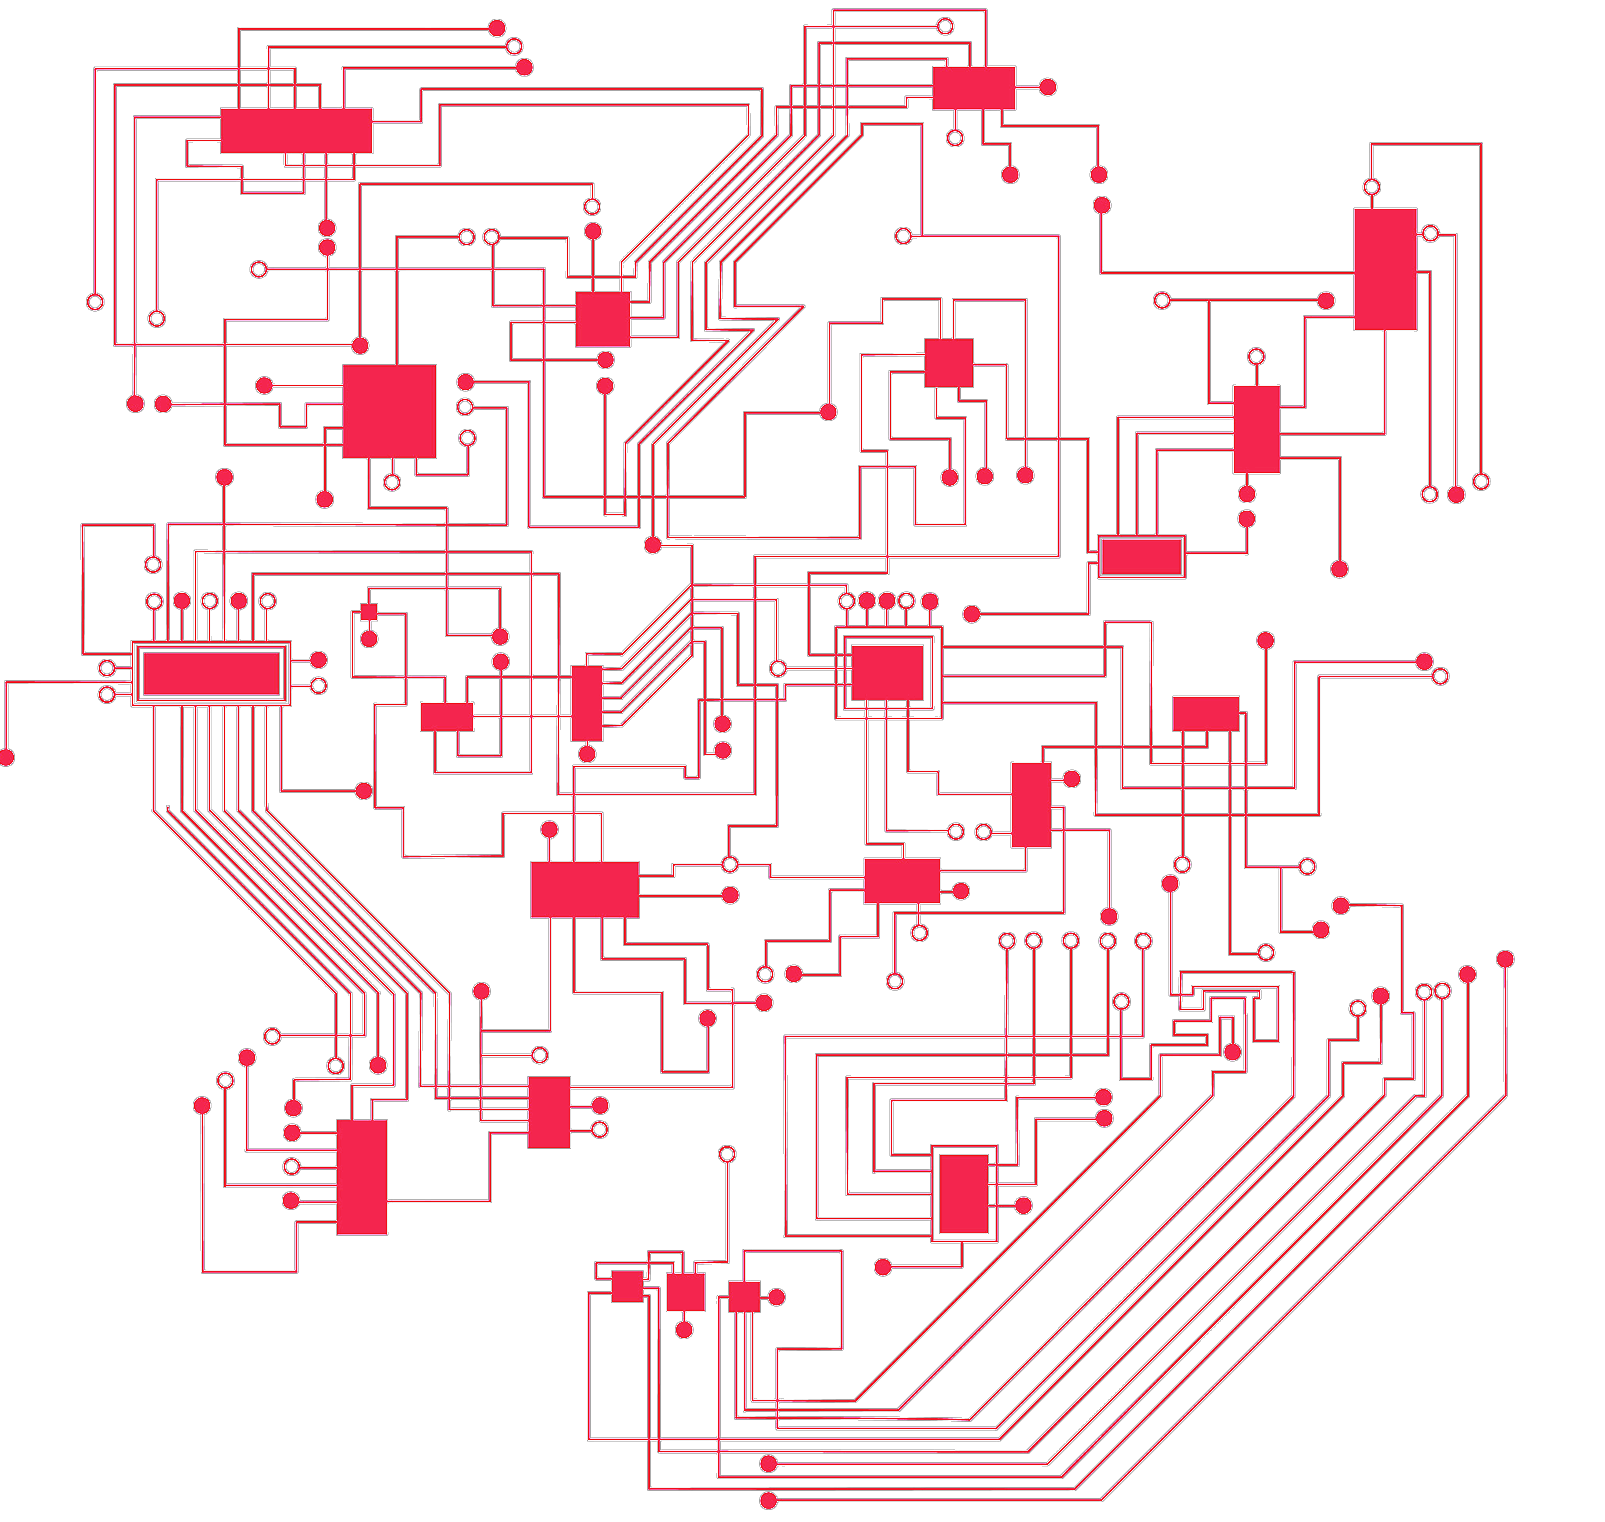
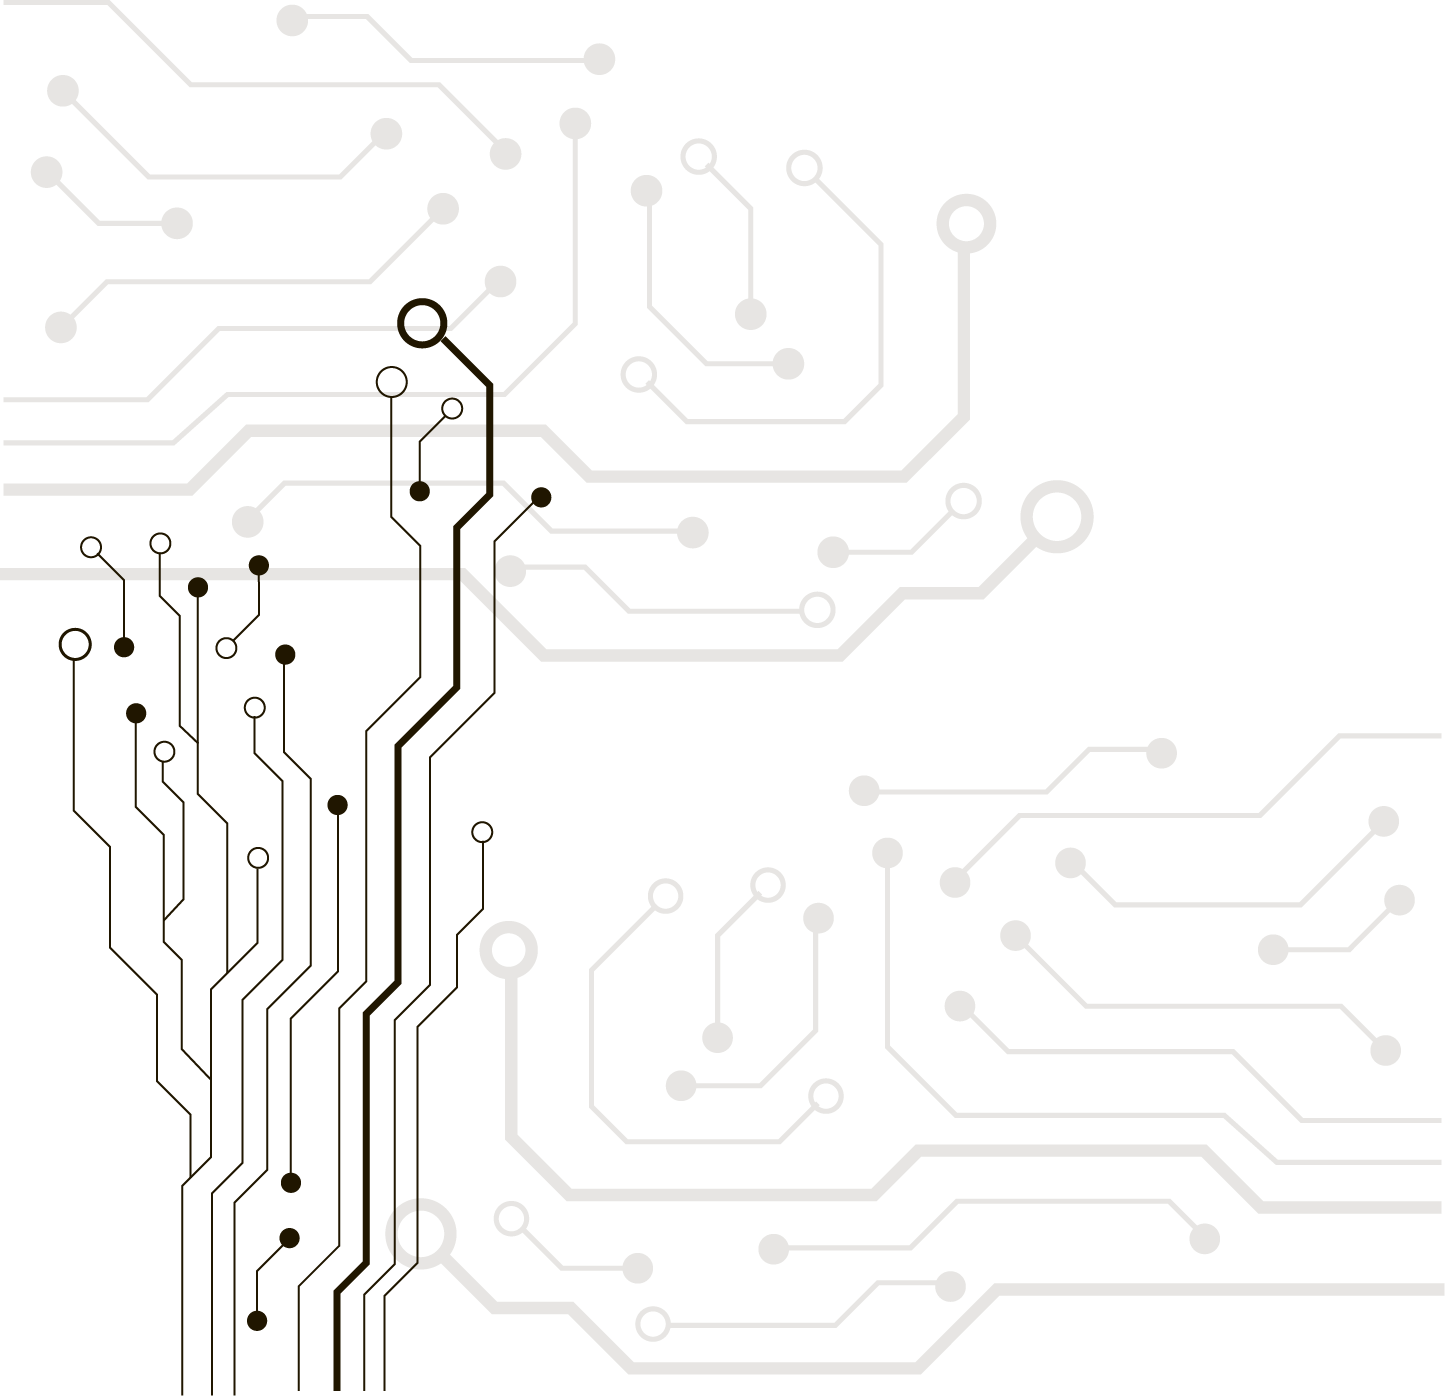
Finishing the second part of the project for LND

diff --git a/css/form-styles.css b/css/form-styles.css
@@ -15,6 +15,7 @@ body {
 
 .container{
   display: flex;
+  width: 100vw;
 }
 
 #error-brand-required {
@@ -46,16 +47,10 @@ body {
   flex-wrap: wrap;
   align-items: center;
   justify-content: center;
-  position: absolute;
   bottom: 0;
 }
 
 #contact {
-  color: rgb(221, 29, 71);
-  text-shadow: 2px 2px black;
-}
-
-#web-design {
   color: rgb(221, 29, 71);
   text-shadow: 2px 2px black;
 }
@@ -66,12 +61,62 @@ body {
     flex-direction: column;
     justify-content: center;
   }
+
+  .container-form{
+    width: 90vw;
+  }
+
+  .container-table{
+    width: 90vw;
+  }
+
+  #footer {
+    position: relative;
+  }
+
+  #contact {
+    padding: 1em;
+  }
+
+  #webs{
+    font-size: large;
+  }
+
+  #webs a{
+    margin-left: 0.2em;
+    margin-right: 0.2em;
+  }
 }
 
 /* Small devices (portrait tablets and large phones, 600px and up) */
 @media only screen and (min-width: 600px) {
   .container{
     flex-direction: row;
+  }
+
+  .container-form{
+    width: 50vw;
+  }
+
+  .container-table{
+    width: 50vw;
+  }
+
+  #footer {
+    position: absolute;
+  }
+
+  #contact {
+    padding: 1em;
+  }
+
+  #webs{
+    font-size: xx-large;
+  }
+
+  #webs a{
+    margin-left: 1em;
+    margin-right: 1em;
   }
 }
 
@@ -80,6 +125,32 @@ body {
   .container{
     flex-direction: row;
   }
+
+  .container-form{
+    width: 50vw;
+  }
+
+  .container-table{
+    width: 50vw;
+  }
+
+  #footer {
+    position: absolute;
+  }
+
+  #contact {
+    padding: 1em;
+    font-size: larger;
+  }
+
+  #webs{
+    font-size: xx-large;
+  }
+
+  #webs a{
+    margin-left: 1em;
+    margin-right: 1em;
+  }
 }
 
 /* Large devices (laptops/desktops, 992px and up) */
@@ -87,11 +158,63 @@ body {
   .container{
     flex-direction: row;
   }
+
+  .container-form{
+    width: 50vw;
+  }
+
+  .container-table{
+    width: 50vw;
+  }
+
+  #footer {
+    position: absolute;
+  }
+
+  #contact {
+    padding: 1em;
+    font-size: larger;
+  }
+
+  #webs{
+    font-size: xx-large;
+  }
+
+  #webs a{
+    margin-left: 2em;
+    margin-right: 2em;
+  }
 }
 
 /* Extra large devices (large laptops and desktops, 1200px and up) */
 @media only screen and (min-width: 1200px) {
   .container{
     flex-direction: row;
+  }
+
+  .container-form{
+    width: 50vw;
+  }
+
+  .container-table{
+    width: 50vw;
+  }
+
+  #footer {
+    position: absolute;
+  }
+
+  #contact {
+    padding: 1em;
+    font-size: xx-large;
+  }
+
+  #webs{
+    font-size: xx-large;
+  }
+
+  #webs a{
+    margin-left: 3em;
+    margin-right: 3em;
   }
 }

diff --git a/css/styles.css b/css/styles.css
@@ -54,6 +54,7 @@ body {
   overflow: hidden;
 }
 
+
 #header {
   display: flex;
   flex-direction: column;
@@ -189,11 +190,6 @@ table caption {
   text-shadow: 2px 2px black;
 }
 
-#web-design {
-  color: rgb(221, 29, 71);
-  text-shadow: 2px 2px black;
-}
-
 /* Extra small devices (phones, 600px and down) */
 @media only screen and (max-width: 600px) {
 
@@ -274,8 +270,13 @@ table caption {
     padding: 1em;
   }
 
-  #web-design {
-    padding: 1em;
+  #webs{
+    font-size: xx-large;
+  }
+
+  #webs a{
+    margin-left: 1em;
+    margin-right: 1em;
   }
 }
 
@@ -335,8 +336,13 @@ table caption {
     padding: 1em;
   }
 
-  #web-design {
-    padding: 1em;
+  #webs{
+    font-size: xx-large;
+  }
+
+  #webs a{
+    margin-left: 1em;
+    margin-right: 1em;
   }
 }
 
@@ -398,9 +404,13 @@ table caption {
     font-size: larger;
   }
 
-  #web-design {
-    padding: 1em;
-    font-size: larger;
+  #webs{
+    font-size: xx-large;
+  }
+
+  #webs a{
+    margin-left: 1em;
+    margin-right: 1em;
   }
 }
 
@@ -470,9 +480,13 @@ table caption {
     font-size: larger;
   }
 
-  #web-design {
-    padding: 1em;
-    font-size: larger;
+  #webs{
+    font-size: xx-large;
+  }
+
+  #webs a{
+    margin-left: 2em;
+    margin-right: 2em;
   }
 }
 
@@ -537,8 +551,12 @@ table caption {
     font-size: xx-large;
   }
 
-  #web-design {
-    padding: 1em;
+  #webs{
     font-size: xx-large;
+  }
+
+  #webs a{
+    margin-left: 3em;
+    margin-right: 3em;
   }
 }

diff --git a/graphic-cards-form.html b/graphic-cards-form.html
@@ -24,7 +24,7 @@
   </nav>
 
   <div class="container">
-      <div class="col-sm-6">
+      <div class="container-form">
         <div class="left-side">
           <form id="gpu-form" action="graphic-cards-form.html">
             <div class="m-3">
@@ -51,9 +51,9 @@
           </form>
         </div>
       </div>
-      <div class="col-sm-6">
+      <div class="container-table">
         <div id="product-table">
-          <table class="table m-5">
+          <table class="table mt-5 ml-5 mr-5">
             <thead>
               <tr class="m-3">
                 <th scope="col">Brand</th>
@@ -81,9 +81,14 @@
     <div id="contact">
       <h4>Contact: www.mauriciogilarmas.com</h4>
       <h4>Phone: (+34) 601 12 54 32</h4>
-    </div>
-    <div id="web-design">
       <h4>Web design by: Mauricio Gil Armas</h4>
+    </div>
+    <div id="webs">
+      <a class="fa-brands fa-instagram" href="https://instagram.com/mauri_gab?igshid=OGQ5ZDc2ODk2ZA=="></a>
+      <a class="fa-brands fa-tiktok" href="https://www.tiktok.com/@mauri_gab?_t=8hPhxFb0AcL&_r=1"></a>
+      <a class="fa-brands fa-github" href=https://github.com/Mgilarmas></a>
+      <a class="fa-brands fa-linkedin" href="https://www.linkedin.com/in/gilarmas?utm_source=share&utm_campaign=share_via&utm_content=profile&utm_medium=android_app"></a>
+      <a class="fa-brands fa-facebook" href="https://www.facebook.com/mauricio.j.gil.1"></a>
     </div>
   </div>
 

diff --git a/index.html b/index.html
@@ -54,6 +54,7 @@
   <div class="header-img">
     <div id="header">
       <img id="electronic-background" src="img/electronic-background.png" alt="Electronic Background">
+      <img id="electronic-background-2" src="img/electronic-background-2.png" alt="Electronic Background 2">
       <h1>GPU Comparator</h1>
       <p>Here you can compare different types of GPUs</p>
       <button type="button">Sign Up</button>
@@ -207,9 +208,14 @@
     <div id="contact">
       <h4>Contact: www.mauriciogilarmas.com</h4>
       <h4>Phone: (+34) 601 12 54 32</h4>
-    </div>
-    <div id="web-design">
       <h4>Web design by: Mauricio Gil Armas</h4>
+    </div>
+    <div id="webs">
+      <a class="fa-brands fa-instagram" href="https://instagram.com/mauri_gab?igshid=OGQ5ZDc2ODk2ZA=="></a>
+      <a class="fa-brands fa-tiktok" href="https://www.tiktok.com/@mauri_gab?_t=8hPhxFb0AcL&_r=1"></a>
+      <a class="fa-brands fa-github" href=https://github.com/Mgilarmas></a>
+      <a class="fa-brands fa-linkedin" href="https://www.linkedin.com/in/gilarmas?utm_source=share&utm_campaign=share_via&utm_content=profile&utm_medium=android_app"></a>
+      <a class="fa-brands fa-facebook" href="https://www.facebook.com/mauricio.j.gil.1"></a>
     </div>
   </div>
 

diff --git a/js/table-manager.js b/js/table-manager.js
@@ -12,7 +12,7 @@ function showGpu() {
     let tableFull = "";
 
     for (let i = 0; i < table.length; i++) {
-        tableFull += "<tr><td>" + table[i].brand + "</td><td>" + table[i].series + "</td><td>" + table[i].model + "</td><td>" + table[i].vram + "</td></tr>";
+        tableFull += `<tr><td> ${table[i].brand} </td><td> ${table[i].series} </td><td> ${table[i].model} </td><td> ${table[i].vram} <button class="fs-6 m-0.7 btn btn-danger rounded-pill border border-dark" onclick="deleteGpu(${i})">Delete</button></td></tr>`;
     }
 
     bodyTable.innerHTML = tableFull;

diff --git a/js/parallax.js b/js/parallax.js
@@ -5,8 +5,11 @@ function initialize() {
   function moveImagesWhenUserScrolls(){
   const SCROLL_POSITION = window.scrollY;
   
-    const RTX = document.getElementById("electronic-background");
-    RTX.style.left = SCROLL_POSITION + "px";
+    const CIRCUIT = document.getElementById("electronic-background");
+    CIRCUIT.style.left = SCROLL_POSITION + "px";
+
+    const CIRCUIT_B = document.getElementById("electronic-background-2");
+    CIRCUIT_B.style.left = -SCROLL_POSITION + "px";
   }
   
   initialize();

diff --git a/README.md b/README.md
@@ -23,7 +23,7 @@ Requirements for the software and other tools to build, test and push
 
 ## Example
 
--(https://dribbble.com/shots/22642833-Landing-page-design-for-a-fitness-trainer)
+- https://dribbble.com/shots/22642833-Landing-page-design-for-a-fitness-trainer
 
 ## Authors
 
@@ -34,5 +34,7 @@ Requirements for the software and other tools to build, test and push
 
   - Tiburcio
   - Echedey
-  - My classmates
+  - Aythami
+  - Wilmer
+  - Mayer
   - W3School
